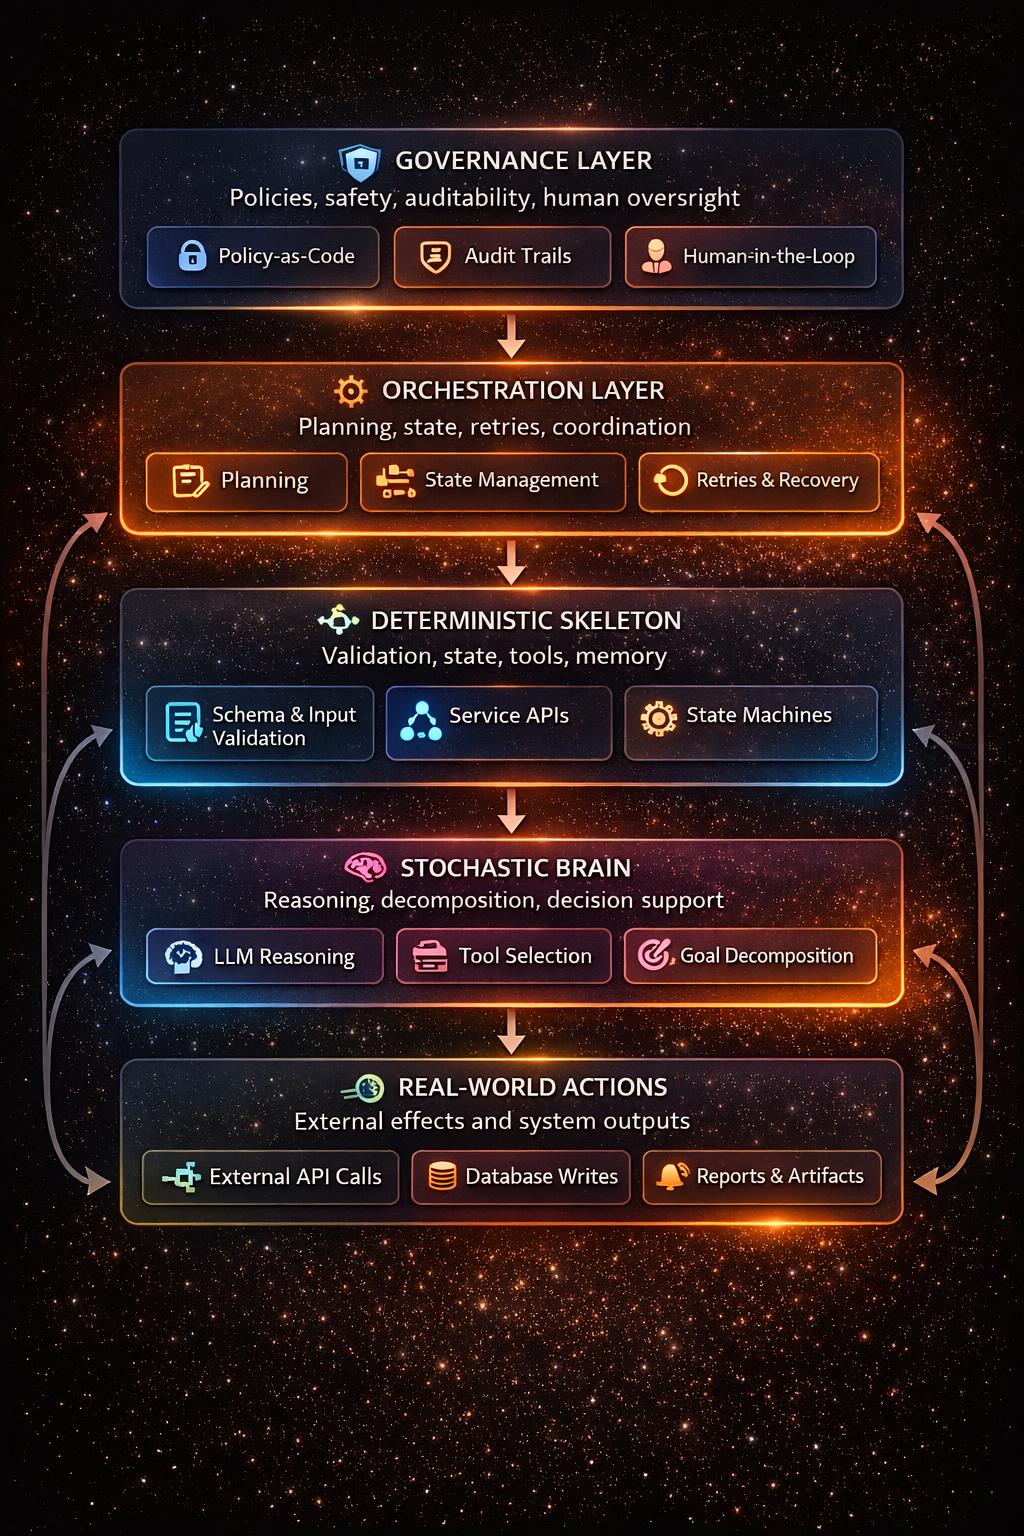
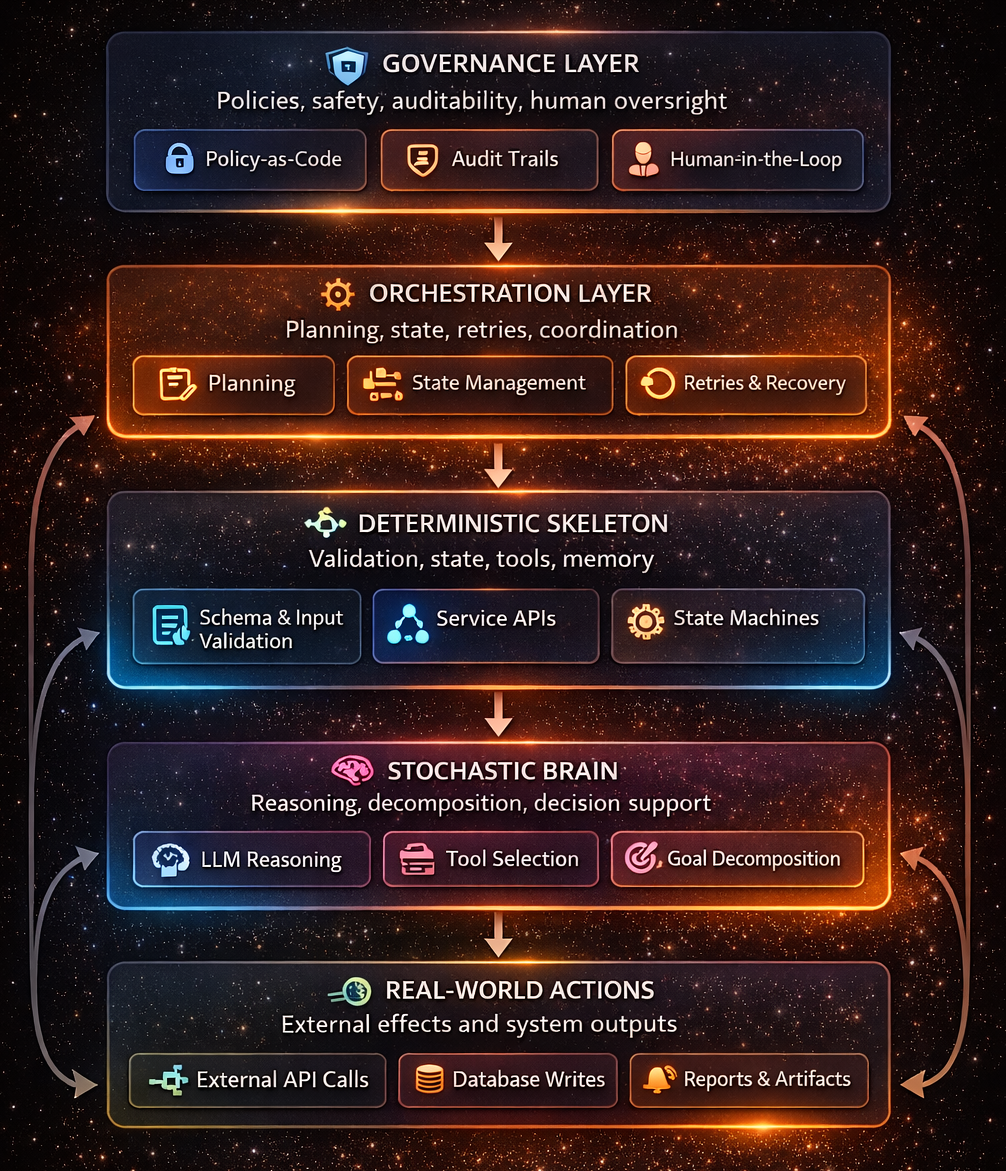
Fix insight image: use 77.png

diff --git a/index.html b/index.html
@@ -191,7 +191,7 @@
         </div>
       </div>
       <div class="insight-visual insight-visual-large">
-            <img src="77.jpg" alt="Agentic AI Architectures Mindmap">
+            <img src="77.png" alt="Agentic AI Architectures Mindmap">
           </div>
               </div>
       
@@ -205,7 +205,7 @@
           <a href="https://medium.com/@anicomanesh/the-planning-rubicon-why-the-vast-majority-of-ai-agents-are-just-expensive-chatbots-part-i-fa0409a10d8e" 
              target="_blank" rel="noopener noreferrer" class="article-card">
             <div class="article-image">
-              <img src="77.jpg" alt="The Planning Rubicon">
+              <img src="77.png" alt="The Planning Rubicon">
             </div>
             <div class="article-card-content">
               <h4 class="article-title">The Planning Rubicon</h4>
